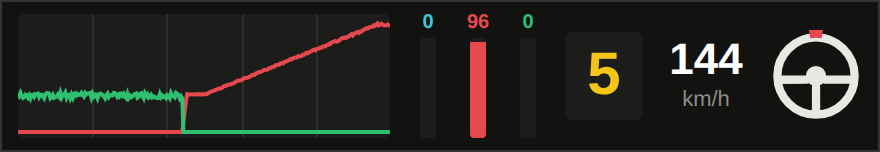
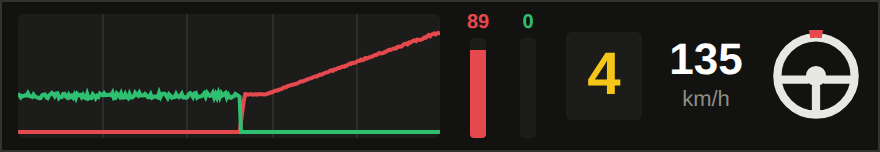
Overlay : retrait de l'embrayage
Claude-Session: https://claude.ai/code/session_013k54ANXZUC1WmHcNPapJX9

diff --git a/templates/overlay.html b/templates/overlay.html
@@ -6,7 +6,7 @@
     <style>
         :root {
             --bg: #121211; --panel: #1c1c1b; --grid: #2c2c2a; --text: #fff; --muted: #8f8e85;
-            --throttle: #2fbf71; --brake: #e5484d; --clutch: #3ec6d6; --gear: #f5c518;
+            --throttle: #2fbf71; --brake: #e5484d; --gear: #f5c518;
         }
         * { margin: 0; padding: 0; box-sizing: border-box; }
         html, body { height: 100%; }
@@ -23,7 +23,6 @@
         .pct { font-size: 10px; font-weight: 700; line-height: 1; }
         .bar { flex: 1; width: 8px; background: var(--panel); border-radius: 2px; position: relative; overflow: hidden; }
         .fill { position: absolute; left: 0; right: 0; bottom: 0; height: 0; }
-        #clutch-fill { background: var(--clutch); } #clutch-pct { color: var(--clutch); }
         #brake-fill { background: var(--brake); } #brake-pct { color: var(--brake); }
         #throttle-fill { background: var(--throttle); } #throttle-pct { color: var(--throttle); }
         .gear {
@@ -39,7 +38,6 @@
 <body class="off" title="iRacing non lancé">
 <canvas id="trace" aria-label="Courbes gaz et frein des dernières secondes"></canvas>
 <div class="bars" aria-label="Pédales">
-    <div class="pedal" title="Embrayage"><span class="pct" id="clutch-pct">0</span><div class="bar"><div class="fill" id="clutch-fill"></div></div></div>
     <div class="pedal" title="Frein"><span class="pct" id="brake-pct">0</span><div class="bar"><div class="fill" id="brake-fill"></div></div></div>
     <div class="pedal" title="Gaz"><span class="pct" id="throttle-pct">0</span><div class="bar"><div class="fill" id="throttle-fill"></div></div></div>
 </div>
@@ -57,8 +55,8 @@
     const HISTORY = 300;  // échantillons affichés (5 s à 60 Hz)
     const canvas = $('trace'), ctx = canvas.getContext('2d');
     const css = name => getComputedStyle(document.documentElement).getPropertyValue(name).trim();
-    const colors = { throttle: css('--throttle'), brake: css('--brake'), clutch: css('--clutch'), grid: css('--grid') };
-    let samples = [];  // [gaz, frein, embrayage] entre 0 et 1
+    const colors = { throttle: css('--throttle'), brake: css('--brake'), grid: css('--grid') };
+    let samples = [];  // [gaz, frein] entre 0 et 1
     let seq = 0;
 
     function setPedal(name, value) {
@@ -95,7 +93,6 @@
             });
             ctx.stroke();
         };
-        if (samples.some(s => s[2] > 0)) line(2, colors.clutch);
         line(1, colors.brake);
         line(0, colors.throttle);
     }
@@ -106,7 +103,6 @@
         document.body.title = live ? '' : s.connected ? 'Pas en piste' : 'iRacing non lancé';
         setPedal('throttle', live ? s.throttle : 0);
         setPedal('brake', live ? s.brake : 0);
-        setPedal('clutch', live ? s.clutch : 0);
         $('gear').textContent = !live ? '—' : s.gear === -1 ? 'R' : s.gear === 0 ? 'N' : (s.gear ?? '—');
         $('speed').textContent = live ? Math.round(s.speed_kmh || 0) : 0;
         $('wheel').style.transform = `rotate(${live ? -(s.steer || 0) : 0}deg)`;

diff --git a/telemetry.py b/telemetry.py
@@ -77,7 +77,7 @@ class TelemetryRecorder:
         self.live = {}
         self.record = None  # {"lap_time", "d", "t"} : ton record sur ce couple voiture × circuit
         self.training = None  # virage choisi pour le mode entraînement
-        self.inputs = collections.deque(maxlen=INPUT_HISTORY)  # (n°, gaz, frein, embrayage) à 60 Hz
+        self.inputs = collections.deque(maxlen=INPUT_HISTORY)  # (n°, gaz, frein) à 60 Hz
         self.input_seq = 0
         self._reset_lap_tracking()
 
@@ -258,7 +258,6 @@ class TelemetryRecorder:
             throttle = ir["Throttle"] or 0.0
             brake = ir["Brake"] or 0.0
             gear = ir["Gear"] or 0
-            clutch = 1.0 - (ir["Clutch"] if ir["Clutch"] is not None else 1.0)  # iRacing : 1 = pédale relâchée
             steer = (ir["SteeringWheelAngle"] or 0.0) * RAD_TO_DEG
             on_track = bool(ir["IsOnTrack"])
             on_pit_road = bool(ir["OnPitRoad"])
@@ -267,9 +266,9 @@ class TelemetryRecorder:
             delta = self._live_delta(ir["LapDistPct"], current_lap_time) if on_track else None
             with self.lock:
                 self.input_seq += 1
-                self.inputs.append((self.input_seq, round(throttle, 3), round(brake, 3), round(clutch, 3)))
+                self.inputs.append((self.input_seq, round(throttle, 3), round(brake, 3)))
                 self.live = {"on_track": on_track, "speed_kmh": speed_kmh, "fuel_l": fuel,
-                             "throttle": throttle, "brake": brake, "clutch": clutch, "steer": steer, "gear": gear,
+                             "throttle": throttle, "brake": brake, "steer": steer, "gear": gear,
                              "lap": ir["Lap"], "lap_time": ir["LapCurrentLapTime"],
                              "delta": delta,
                              "record": self.record["lap_time"] if self.record else None,
@@ -430,7 +429,7 @@ class TelemetryRecorder:
             samples = [s[1:] for s in self.inputs if s[0] > since]
             return {"connected": self.connected, "on_track": bool(live.get("on_track")),
                     "speed_kmh": live.get("speed_kmh"), "gear": live.get("gear"), "steer": live.get("steer"),
-                    "throttle": live.get("throttle"), "brake": live.get("brake"), "clutch": live.get("clutch"),
+                    "throttle": live.get("throttle"), "brake": live.get("brake"),
                     "seq": self.input_seq, "samples": samples}
 
     def status(self):

diff --git a/tests/test_app.py b/tests/test_app.py
@@ -220,9 +220,9 @@ class CoachingTest(unittest.TestCase):
         for key in ("throttle", "brake", "delta", "record", "predicted"):
             self.assertIn(key, status)
         data = self.client.get("/api/inputs?since=0").get_json()
-        for key in ("connected", "on_track", "speed_kmh", "gear", "steer", "throttle", "brake", "clutch", "seq"):
+        for key in ("connected", "on_track", "speed_kmh", "gear", "steer", "throttle", "brake", "seq"):
             self.assertIn(key, data)
-        self.assertTrue(all(len(s) == 3 and all(0 <= v <= 1 for v in s) for s in data["samples"]))
+        self.assertTrue(all(len(s) == 2 and all(0 <= v <= 1 for v in s) for s in data["samples"]))
         later = self.client.get(f"/api/inputs?since={data['seq']}").get_json()
         self.assertEqual(len(later["samples"]), later["seq"] - data["seq"])  # seulement les nouveaux échantillons
 

diff --git a/README.md b/README.md
@@ -131,7 +131,7 @@ pas le régime, les G ni l'ABS : leur analyse est partielle, et l'interface le s
   ton record au même endroit de la piste, le temps prévu du tour et ton record.
 - **Overlay des pédales** : un bandeau fin, toujours au premier plan, sans bordure et déplaçable à la souris.
   Il affiche en direct les courbes gaz et frein des 5 dernières secondes (à 60 Hz), des barres fines pour
-  l'embrayage, le frein et le gaz avec leur pourcentage au-dessus, le rapport, la vitesse et un volant qui
+  le frein et le gaz avec leur pourcentage au-dessus, le rapport, la vitesse et un volant qui
   tourne avec le tien. Pour qu'elle s'affiche par-dessus le jeu, lance iRacing en mode **fenêtré sans bordure**
   (borderless) : aucune fenêtre ne peut passer devant un jeu en plein écran exclusif. Tu peux la désactiver
   dans le panneau ⚙.
